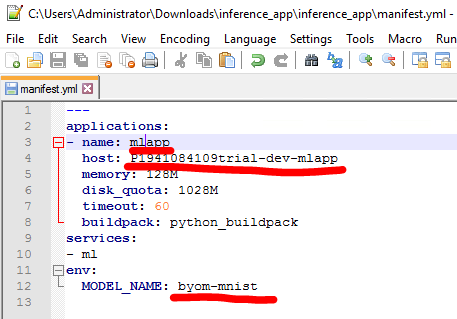
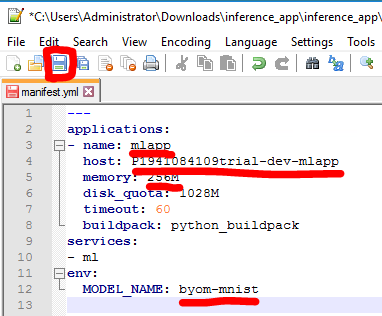
PowerWeek2018

Changed region(s): [[0.0, 0.0, 1.0, 1.0]]

diff --git a/Exercise_09/Exercise_09.md b/Exercise_09/Exercise_09.md
@@ -155,9 +155,10 @@ In this section, you will push an application that we have already prepared for 
 	| %APP\_NAME% | the name you want to give to the Cloud Foundry application (i.e. mlapp) |
 	| %APP\_HOST% | the unique host name you want to give to the Cloud Foundry application (use your Cloud Foundry trial org and space followed by your app name i.e %org%-%space%-mlapp HINT: use the **cf t** command to see your org and space) |
 	| %SERVICE\_INSTANCE\_NAME% | the name of ML Foundation instance you have created in the first exercises (i.e. ml) |
-	| %MODEL\_NAME% |the name of the model you have just deployed (i.e. byom-mnist) |
+	| %MODEL\_NAME% | the name of the model you have just deployed (i.e. byom-mnist) |
+	| memory | set the value to 256M |
 
-	Once done, save and close the file  
+	Once done, save the file  
 
 	![](images/16.png)
 
